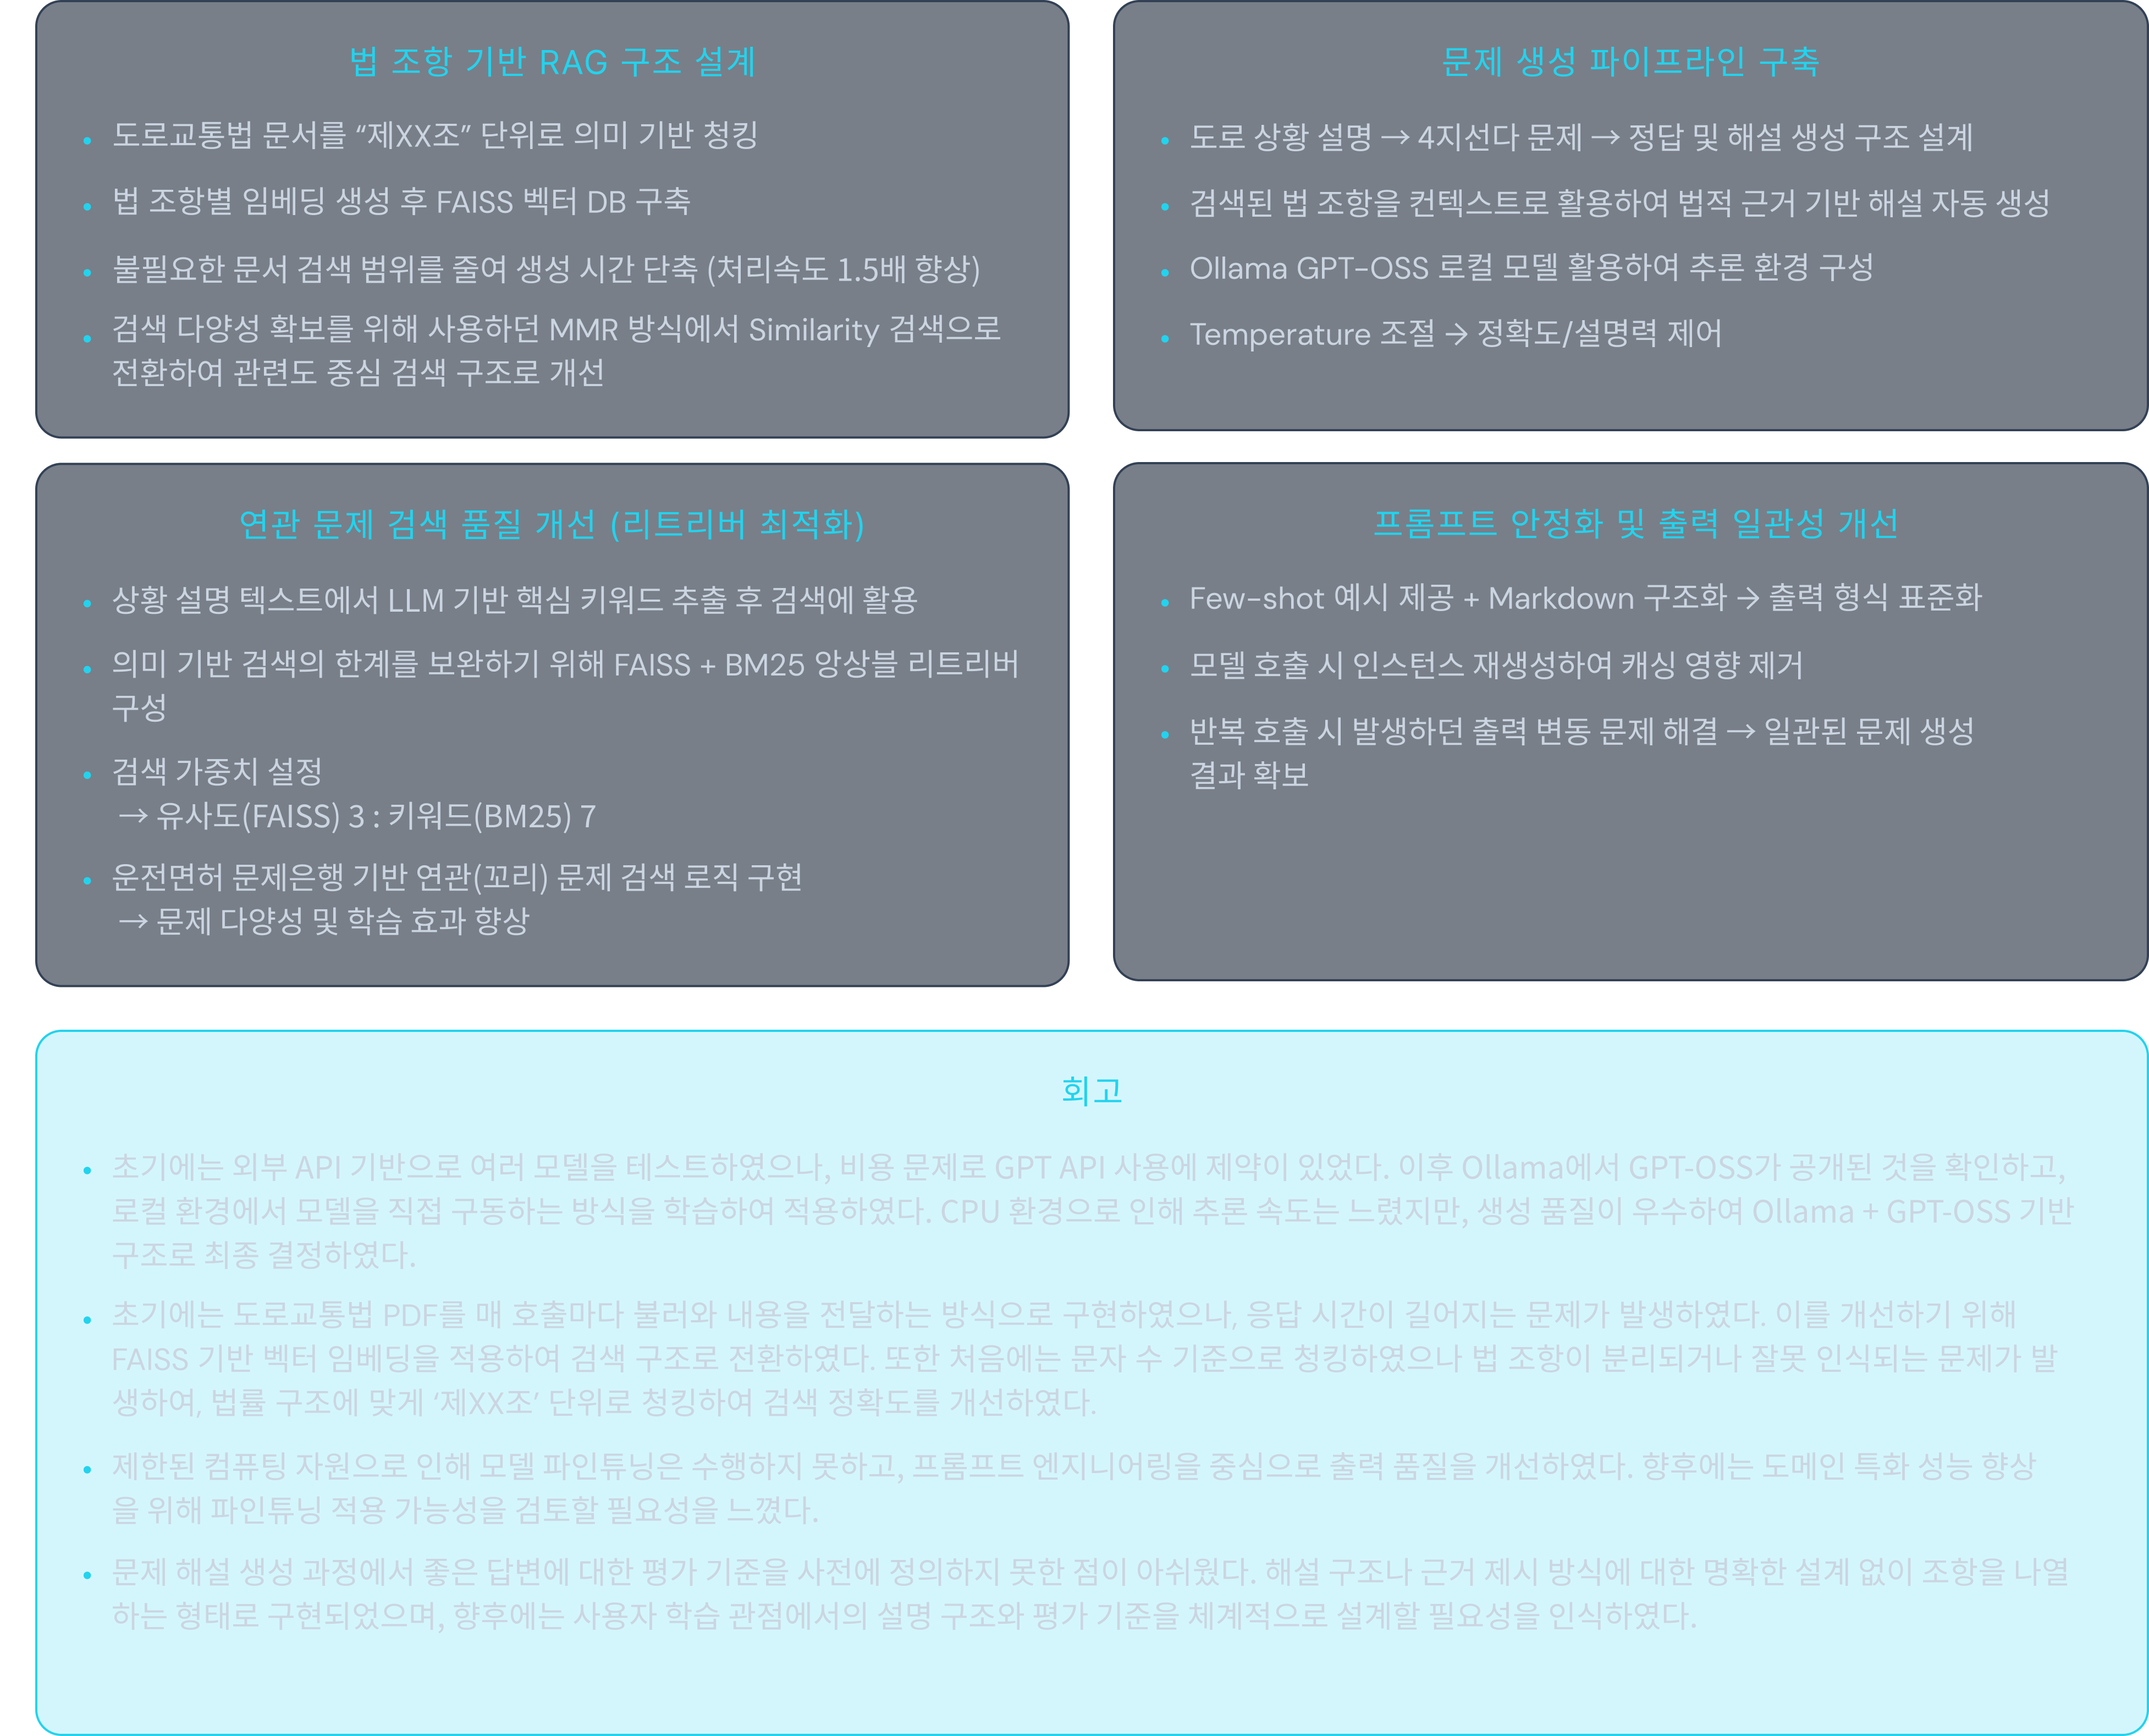
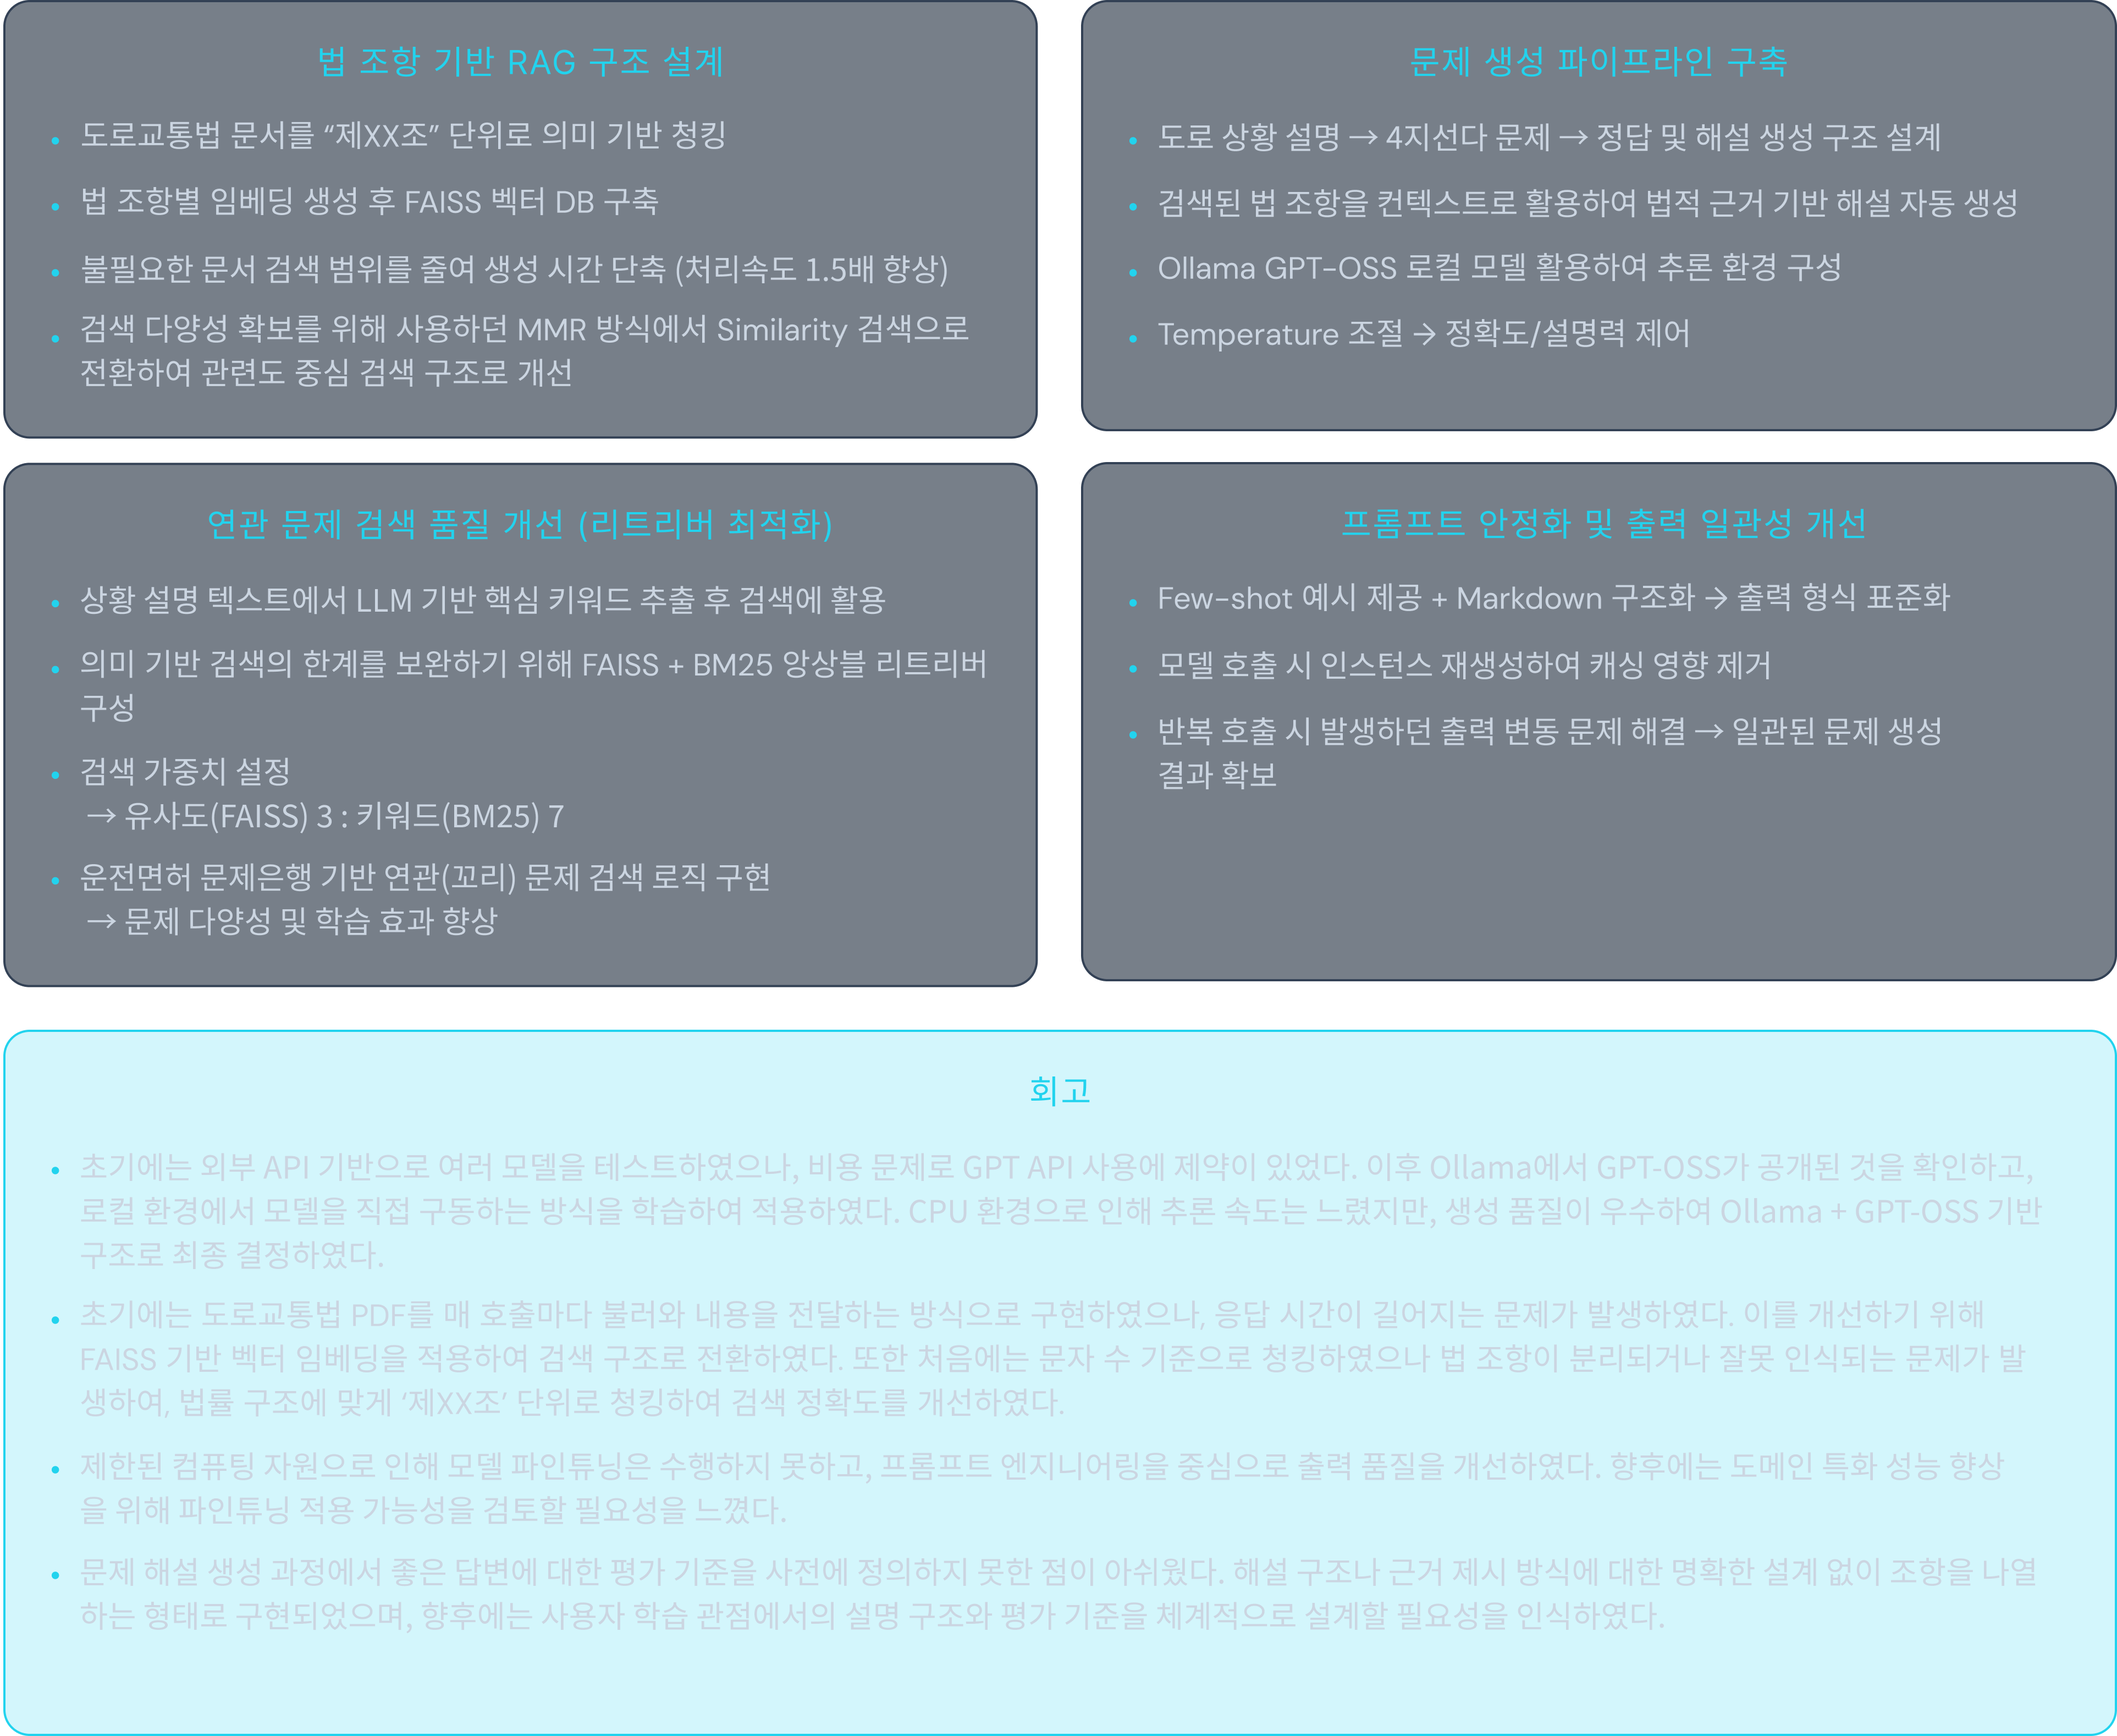
나의 역할 > RAG_LLM (2026-02-22 19:33:27)

diff --git a/projects/ai-go/index.html b/projects/ai-go/index.html
@@ -225,46 +225,11 @@
                     </svg>
                   </div>
                   <div>
-                    <h3 class="font-black text-xl text-white">VLM 모델 분담 실험험 :  영상 -> 텍스트 변환</h3>
+                    <h3 class="font-black text-xl text-white">VLM 모델 분담 실험 :  영상 -> 텍스트 변환</h3>
                     <p class="text-sm text-slate-400 mt-0.5 text-left">모델 실험 · 한계 분석 · 프롬프트 엔지니어링</p>
                   </div>
                 </div>
-                <div class="grid grid-cols-1 md:grid-cols-3 gap-5 pl-0 md:pl-4">
-                  <div class="bg-slate-800/60 border border-slate-700 rounded-xl p-5">
-                    <p class="text-xs font-bold text-purple-400 uppercase tracking-wider mb-3">VLM 모델 실험 및 검증</p>
-                    <ul class="space-y-2 text-left">
-                      <li class="flex items-start gap-2 text-slate-300 text-sm"><span class="text-purple-400 mt-0.5 shrink-0">•</span><span>다수 모델 비교 테스트</span></li>
-                      <li class="flex items-start gap-2 text-slate-300 text-sm"><span class="text-purple-400 mt-0.5 shrink-0">•</span><span>Hugging Face 기반 GIT 모델 담당</span></li>
-                      <li class="flex items-start gap-2 text-slate-300 text-sm"><span class="text-purple-400 mt-0.5 shrink-0">•</span><span>FPS / 프레임 수 조정 → 시간 왜곡 문제 개선</span></li>
-                      <li class="flex items-start gap-2 text-slate-300 text-sm"><span class="text-purple-400 mt-0.5 shrink-0">•</span><span>주요 장면 균형 샘플링 설계</span></li>
-                    </ul>
-                    <div class="mt-3 flex items-center gap-3 w-full">
-                      <img src="../../images/hugging_face_logo.png" alt="Hugging Face" class="h-8 w-[90px] object-contain flex-1 rounded-[20px]" />
-                      <img src="../../images/git_logo.png" alt="GIT Base COCO (Microsoft)" class="h-5 w-[130px] object-contain flex-1" />
-                    </div>
-                  </div>
-                  <div class="bg-slate-800/60 border border-slate-700 rounded-xl p-5">
-                    <p class="text-xs font-bold text-purple-400 uppercase tracking-wider mb-3">모델 한계 분석 및 기각</p>
-                    <ul class="space-y-2">
-                      <li class="flex items-start gap-2 text-slate-300 text-sm"><span class="text-purple-400 mt-0.5 shrink-0">•</span><span>주변 물체 인식 중심 서술</span></li>
-                      <li class="flex items-start gap-2 text-slate-300 text-sm"><span class="text-purple-400 mt-0.5 shrink-0">•</span><span>도로 상황 맥락 이해 부족</span></li>
-                    </ul>
-                    <div class="mt-5 p-3 bg-red-500/[0.23] border border-red-500/[0.42] rounded-lg">
-                      <p class="text-xs font-semibold text-[#ff8a8a]">→ 서비스 부적합 판단</p>
-                    </div>
-                  </div>
-                  <div class="bg-slate-800/60 border border-slate-700 rounded-xl p-5">
-                    <p class="text-xs font-bold text-purple-400 uppercase tracking-wider mb-3">프롬프트 엔지니어링</p>
-                    <ul class="space-y-2">
-                      <li class="flex items-start gap-2 text-slate-300 text-sm"><span class="text-purple-400 mt-0.5 shrink-0">•</span><span>Few-shot 적용</span></li>
-                      <li class="flex items-start gap-2 text-slate-300 text-sm"><span class="text-purple-400 mt-0.5 shrink-0">•</span><span>Markdown 구조화</span></li>
-                      <li class="flex items-start gap-2 text-slate-300 text-sm"><span class="text-purple-400 mt-0.5 shrink-0">•</span><span>반복 문장 / 사실 왜곡 개선</span></li>
-                    </ul>
-                    <div class="mt-3 pt-3 border-t border-slate-700">
-                      <p class="text-xs text-purple-300 font-semibold"> -> 시간 순서 기반 상황 설명 안정화</p>
-                    </div>
-                  </div>
-                </div>
+                <img src="../../images/VLM 모델 선별.png" alt="VLM 모델 실험 및 검증 · 한계 분석 · 프롬프트 엔지니어링" class="w-full rounded-xl" />
               </div>
               <div class="bg-slate-900/60 backdrop-blur-xl border border-slate-800 rounded-2xl p-8 hover:border-cyan-500/40 transition-all" style="opacity: 1; transform: none;">
                 <div class="flex items-center gap-4 mb-6">
@@ -276,48 +241,7 @@
                     <p class="text-sm text-slate-400 mt-0.5 text-left">법 조항 기반 RAG · 문제 생성 파이프라인 · 검색 품질 개선</p>
                   </div>
                 </div>
-                <div class="grid grid-cols-1 md:grid-cols-2 gap-5 pl-0 md:pl-4">
-                  <div class="bg-slate-800/60 border border-slate-700 rounded-xl p-5">
-                    <p class="text-xs font-bold text-cyan-400 uppercase tracking-wider mb-3">법 조항 기반 RAG 구조</p>
-                    <ul class="space-y-2">
-                      <li class="flex items-start gap-2 text-slate-300 text-sm"><span class="text-cyan-400 mt-0.5 shrink-0">•</span><span>"제XX조" 단위 청킹</span></li>
-                      <li class="flex items-start gap-2 text-slate-300 text-sm"><span class="text-cyan-400 mt-0.5 shrink-0">•</span><span>FAISS 벡터 DB 구축</span></li>
-                      <li class="flex items-start gap-2 text-slate-300 text-sm"><span class="text-cyan-400 mt-0.5 shrink-0">•</span><span>생성 시간 단축 (처리속도 1.5배 향상)</span></li>
-                      <li class="flex items-start gap-2 text-slate-300 text-sm"><span class="text-cyan-400 mt-0.5 shrink-0">•</span><span>MMR → Similarity 검색 방식 전환</span></li>
-                    </ul>
-                  </div>
-                  <div class="bg-slate-800/60 border border-slate-700 rounded-xl p-5">
-                    <p class="text-xs font-bold text-cyan-400 uppercase tracking-wider mb-3">문제 생성 파이프라인</p>
-                    <ul class="space-y-2">
-                      <li class="flex items-start gap-2 text-slate-300 text-sm"><span class="text-cyan-400 mt-0.5 shrink-0">•</span><span>상황 설명 → 4지선다 생성</span></li>
-                      <li class="flex items-start gap-2 text-slate-300 text-sm"><span class="text-cyan-400 mt-0.5 shrink-0">•</span><span>법 조항 기반 해설 자동 생성</span></li>
-                      <li class="flex items-start gap-2 text-slate-300 text-sm"><span class="text-cyan-400 mt-0.5 shrink-0">•</span><span>Ollama GPT-OSS 활용</span></li>
-                      <li class="flex items-start gap-2 text-slate-300 text-sm"><span class="text-cyan-400 mt-0.5 shrink-0">•</span><span>Temperature 조절 → 정확도/설명력 제어</span></li>
-                    </ul>
-                  </div>
-                  <div class="bg-slate-800/60 border border-slate-700 rounded-xl p-5">
-                    <p class="text-xs font-bold text-cyan-400 uppercase tracking-wider mb-3">검색 품질 개선</p>
-                    <ul class="space-y-2">
-                      <li class="flex items-start gap-2 text-slate-300 text-sm"><span class="text-cyan-400 mt-0.5 shrink-0">•</span><span>FAISS + BM25 앙상블 리트리버</span></li>
-                      <li class="flex items-start gap-2 text-slate-300 text-sm"><span class="text-cyan-400 mt-0.5 shrink-0">•</span><span>LLM 기반 중요 키워드 추출</span></li>
-                      <li class="flex items-start gap-2 text-slate-300 text-sm"><span class="text-cyan-400 mt-0.5 shrink-0">•</span><span>연관(꼬리) 문제 검색 로직 구현</span></li>
-                    </ul>
-                    <div class="mt-3 p-3 bg-cyan-500/10 border border-cyan-500/30 rounded-lg">
-                      <p class="text-xs text-cyan-300 font-semibold">유사도 3 : 키워드 7 비율</p>
-                    </div>
-                  </div>
-                  <div class="bg-slate-800/60 border border-slate-700 rounded-xl p-5">
-                    <p class="text-xs font-bold text-cyan-400 uppercase tracking-wider mb-3">프롬프트 안정화</p>
-                    <ul class="space-y-2">
-                      <li class="flex items-start gap-2 text-slate-300 text-sm"><span class="text-cyan-400 mt-0.5 shrink-0">•</span><span>Few-shot + Markdown 구조화</span></li>
-                      <li class="flex items-start gap-2 text-slate-300 text-sm"><span class="text-cyan-400 mt-0.5 shrink-0">•</span><span>호출 시 인스턴스 재생성</span></li>
-                      <li class="flex items-start gap-2 text-slate-300 text-sm"><span class="text-cyan-400 mt-0.5 shrink-0">•</span><span>캐싱 문제 해결 → 출력 일관성 확보</span></li>
-                    </ul>
-                    <div class="mt-3 pt-3 border-t border-slate-700">
-                      <p class="text-xs text-cyan-300 font-semibold"> -> 법 조항 정합성 중심 문제 생성 시스템 설계</p>
-                    </div>
-                  </div>
-                </div>
+                <img src="../../images/RAG_LLM.png" alt="법 조항 기반 RAG · 문제 생성 파이프라인 · 검색 품질 개선 · 프롬프트 안정화" class="w-full rounded-xl" />
               </div>
               <div class="grid grid-cols-1 gap-[50px]">
                 <div class="bg-slate-900/60 backdrop-blur-xl border border-slate-800 rounded-2xl p-8 hover:border-green-500/40 transition-all" style="opacity: 1; transform: none;">
